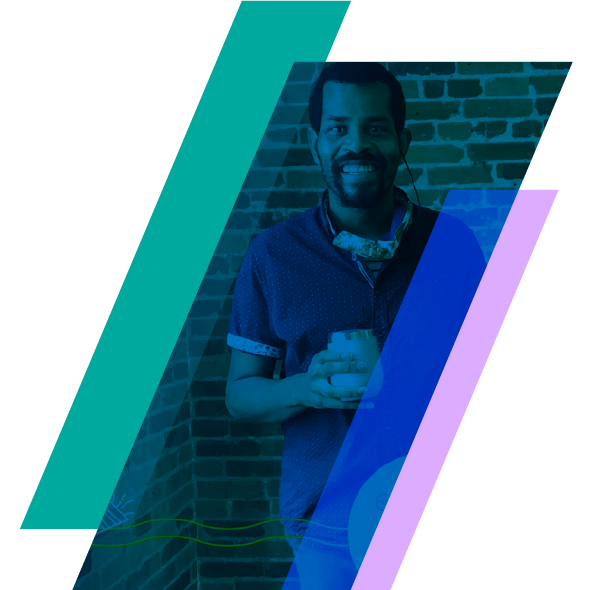
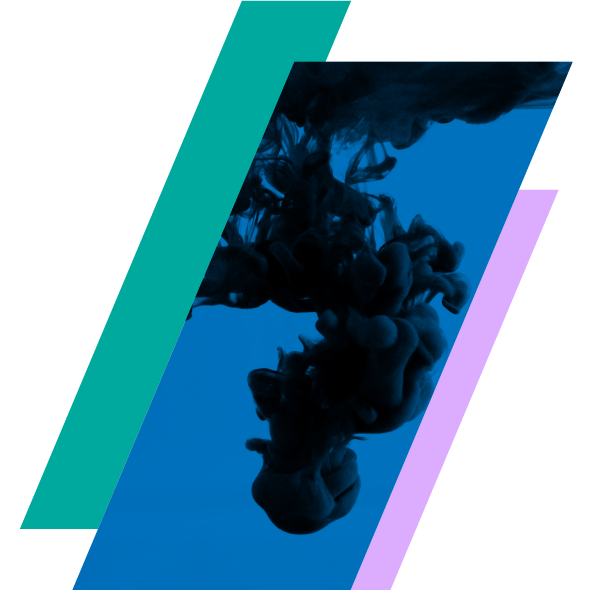
updates 1/8

diff --git a/frontend/static/stylesheets/style.css b/frontend/static/stylesheets/style.css
@@ -24,7 +24,7 @@ a:hover {
 }
 
 h1, h2, h3, h4, h5, h6 {
-  font-family: "Raleway", sans-serif;
+  font-family: var(--secondary-font), sans-serif;
 }
 h2 {
   color: var(--turquoise-90);
@@ -99,6 +99,8 @@ h2 {
   --spacing-4: 32px;
   --spacing-5: 48px;
   --spacing-6: 64px;
+
+  -gradient-angle: 135deg;
 }
 /*--------------------------------------------------------------
 # Buttons
@@ -481,7 +483,7 @@ h2 {
   background-repeat: no-repeat;
   background-size: contain;
   background-position: right top;
-  margin-top: 70px;
+  margin-top: 75px;
   padding: 60px 0;
   background-color: var(--color-3);
 }
@@ -501,7 +503,7 @@ h2 {
 }
 
 #hero .btn-get-started {
-  font-family: "Raleway", sans-serif;
+  font-family: var(--primary-font), sans-serif;
   font-weight: 600;
   font-size: 13px;
   text-transform: uppercase;
@@ -541,7 +543,9 @@ h2 {
     font-size: 20px;
   }
 }
-
+.hero-short {
+  padding: var(--spacing-3) 0!important;
+}
 /*--------------------------------------------------------------
 # Sections General
 --------------------------------------------------------------*/
@@ -977,7 +981,7 @@ section {
 }
 
 .cta .cta-btn {
-  font-family: "Raleway", sans-serif;
+  font-family: var(--primary-font), sans-serif;
   font-weight: 500;
   font-size: 15px;
   letter-spacing: 1px;
@@ -1299,7 +1303,7 @@ section {
   border-radius: 4px;
   color: #fff;
   font-size: 13px;
-  font-family: "Raleway", sans-serif;
+  font-family: var(--primary-font), sans-serif;
   font-weight: 600;
   text-transform: uppercase;
 }
@@ -1628,7 +1632,7 @@ section {
   font-size: 14px;
   line-height: 24px;
   margin-bottom: 0;
-  font-family: "Raleway", sans-serif;
+  font-family: var(--primary-font), sans-serif;
   color: #576971;
 }
 
@@ -1759,7 +1763,22 @@ section {
   color: #364146;
 }
 
+.card{
+  border-radius: 4px;
+  background: #fff;
+  box-shadow: 0 6px 10px rgba(0,0,0,.08), 0 0 6px rgba(0,0,0,.05);
+  transition: .3s transform cubic-bezier(.155,1.105,.295,1.12),.3s box-shadow,.3s -webkit-transform cubic-bezier(.155,1.105,.295,1.12);
+  padding: 0px 0px 18px 0px;
+  cursor: pointer;
+}
 
+.card:hover{
+  transform: scale(1.05);
+  transition: .3s transform cubic-bezier(.155,1.105,.295,1.12),.3s box-shadow,.3s -webkit-transform cubic-bezier(.155,1.105,.295,1.12);
+  background:var(--color-2);
+  color: #232323;
+  box-shadow: 0 10px 20px rgba(0,0,0,.12), 0 4px 8px rgba(0,0,0,.06);
+}
 
 
 .blog-card > .row {

diff --git a/frontend/templates/category.html b/frontend/templates/category.html
@@ -5,7 +5,7 @@
 
 {% block content %}
 <head><title>{{ tag.title }} | Tony Vergara</title></head>
-<section id="hero" style="background-image: url('{% static 'images/home-bg.png' %}');">
+<section id="hero" style="background-image: url('{% static 'images/img-hero-bg.png' %}');">
   <div class="container">
     <div class="row">
       <div class="col-lg-6 pt-5 pt-lg-0 order-2 order-lg-1 d-flex flex-column justify-content-center" data-aos="fade-up">
@@ -24,7 +24,7 @@
 <section><div class='container mt-4'>
   <div class='row col-md-6'>
     <h2>Our {{tag.title}} Services</h2>
-    <p>Lorem ipsum dolor sit amet. This is where we'll talk the longer form content of the process we're offering. e.g: for workshops, talk about our planning and retrospective sessions. For website redesign strategy, talk about our pre-wireframe steps.</p>
+    <p>{{tag.body_copy|markdownify}}</p>
   </div>
   <div class='row col-md-6'>
     <div class="accordion" id="accordionExample" style="width:100%">

diff --git a/frontend/templates/projects/project.html b/frontend/templates/projects/project.html
@@ -158,10 +158,10 @@
                 <div class="card blog-card mb-3" data-aos="fade-up">
                   <div class="row no-gutters">
                     <div class="col-sm-8">
-                      <div class="card-body">
-                        <i class="fas fa-file-pdf"></i>
-                        <h4 class="card-title">{{deliverable.title}}</h4>
-                        <p class="card-text">{{deliverable.description}}</p>
+                      <div class="card-body d-flex">
+                        <i class="fas fa-file-pdf file-icon"></i>
+                        <div class="file-text"><h4 class="card-title">{{deliverable.title}}</h4>
+                                                <p class="card-text">{{deliverable.description}}</p></div>
                       </div>
                     </div>
                     <div class="col-sm-4">

diff --git a/frontend/templates/projects.html b/frontend/templates/projects.html
@@ -4,9 +4,9 @@
 {% block content %}
 <title>Projects | Tony Vergara</title>
 <!-- ======= Breadcrumbs ======= -->
-    <section id="breadcrumbs" class="breadcrumbs" style="background: linear-gradient(135deg, rgba(147,253,222,1) 50%, rgba(32,233,207,1) 100%);">
-      <div class="container">
+    <section id="hero"  class="breadcrumbs hero-short" style="background-image: url('{% static 'images/img-hero-bg.png' %}');">
 
+    <div class="container">
         <ol>
           <li><a href="index.html">Home</a></li>
           <li>Projects</li>
@@ -24,7 +24,8 @@
       </div>
     </div>
       </div>
-    </section><!-- End Breadcrumbs -->
+
+  </section>
 <div class='container my-4'>
   
   

diff --git a/frontend/templates/about.html b/frontend/templates/about.html
@@ -5,7 +5,7 @@
 
 {% block content %}
 <head><title>About Tony Vergara</title></head>
-<section id="hero" style="background-image: url('{% static 'images/home-bg.png' %}');">
+<section id="hero" style="background-image: url('{% static 'images/img-hero-bg.png' %}');">
 
     <div class="container">
       <div class="row">
